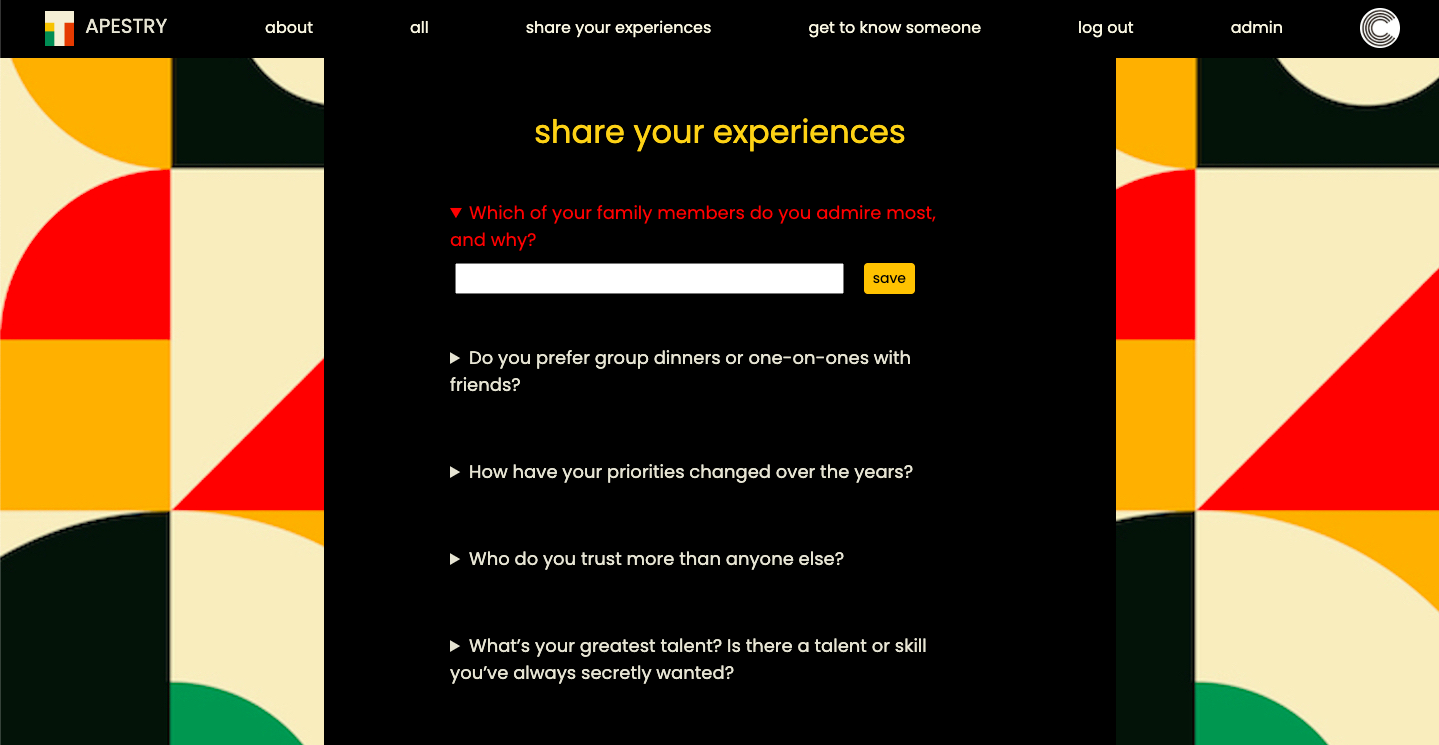
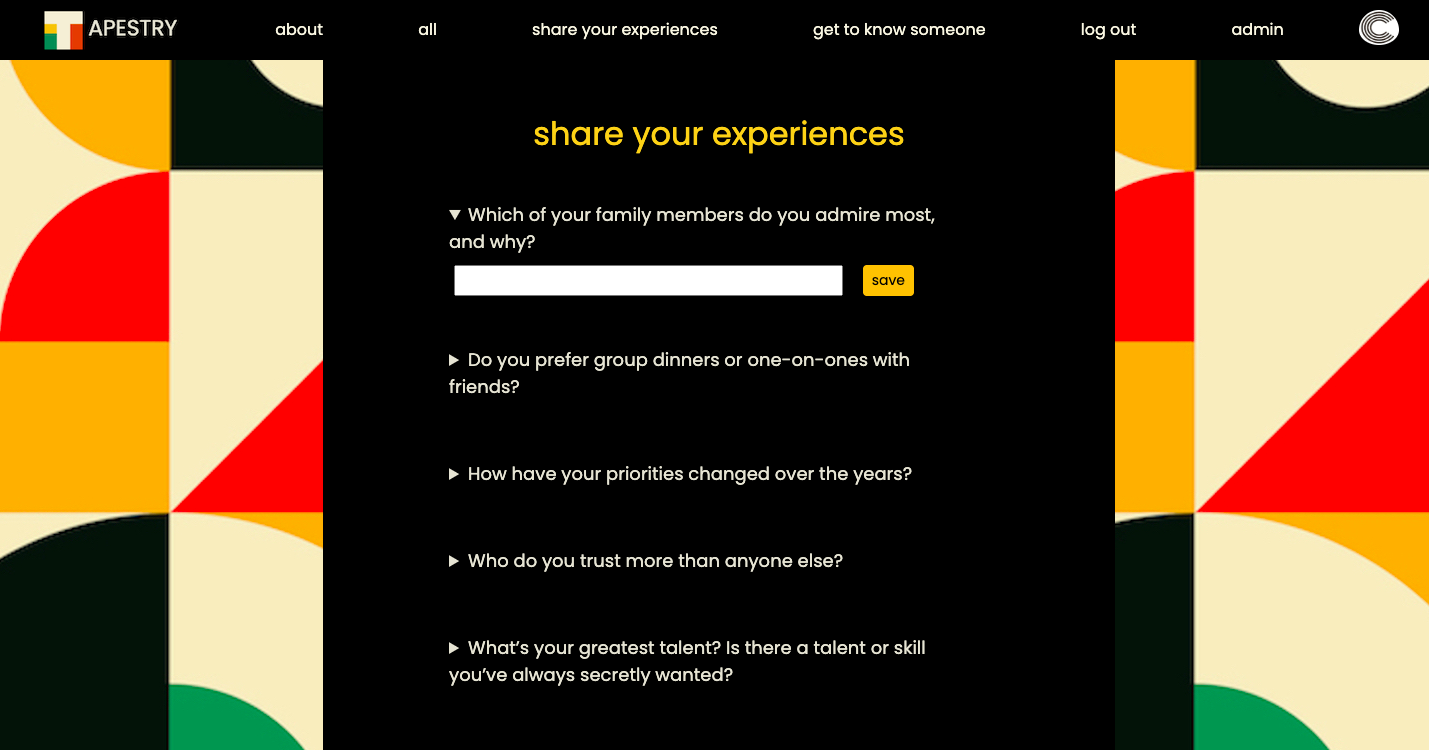
tweak css profile view

diff --git a/public/stylesheets/style.css b/public/stylesheets/style.css
@@ -33,17 +33,18 @@ main {
   align-items: center;
   justify-content: center;
   flex-direction: column;
-  padding: 0px 0 0 0;
 }
 
 section {
-  width: 50%;
-  height: 100%  ;
+  max-width: 55%;
+  /* min-width: 50%; */
+  height: 100%;
   display: flex;
   flex-direction: column;
   justify-content: flex-start;
   align-items: center;
   background-color: black;
+  padding: 0 55px;
 }
 
 form {
@@ -54,7 +55,7 @@ form {
 
 h1 {
   font-size: 32px;
-  padding: 10px 0 30px 0;
+  padding: 10px 0 0px 0;
   text-align: center;
   color: rgb(249, 207, 56);
 }
@@ -65,13 +66,13 @@ h2 {
 }
 
 h3 {
-  font-size: 20px;
+  font-size: 18px;
   text-align: center;
   padding: 10px 0 10px 0;
 }
 
 h4 {
-  font-size: 20px;
+  font-size: 18px;
 }
 
 ul {
@@ -95,7 +96,6 @@ input {
 
 
 details, summary {
-  padding: 0 10px;
   width: 500px;
   color:  rgb(230, 227, 211);
   font-size: 14px;
@@ -127,10 +127,10 @@ a {
   text-decoration: none;
   text-align: center;
 }
-
+/*
 pre {
   font-size: 14px;
-}
+} */
 
 nav > a {
   margin: 10px 20px;
@@ -171,13 +171,24 @@ nav > a:active {
 } */
 
 .form-div {
+  display: flex;
+  justify-content: center;
+  align-items: center;
   padding: 0 10px;
-  width: 600px;
 }
 
 .new-question {
-  padding: 10px 0 30px 0;
-  width: 600px;
+  padding: 30px 0 10px 0;
+  width: 500px;
+}
+
+#click-question {
+  padding: 15px 0 30px 0;
+}
+
+#question-line {
+  margin: 0 10px 10px 0px;
+  color:  rgb(0, 151, 80);
 }
 
 .qa-div {
@@ -196,6 +207,10 @@ nav > a:active {
   color:  rgb(0, 151, 80);
 }
 
+.comment-li {
+  list-style-type: circle;
+}
+
 summary:hover {
   color:  rgb(255, 0, 0);
 }
@@ -212,9 +227,9 @@ summary:hover {
 }
 
 .tapestry-header {
-  padding: 40px 0 0 0;
   font-size: 95px;
   color:  rgb(0, 151, 80);
+  padding:0;
 }
 
 #container {
@@ -226,11 +241,11 @@ summary:hover {
   width: 50%;
   height: 100vh;
   padding: 100px 0 0 0;
-  margin: 100px 50px 100 100px;
+  margin: 60px 50px 100 100px;
 }
 
 .intro-text {
-  font-size: 20px;
+  font-size: 18px;
   width: 58%;
   color: rgb(250, 246, 227);
 }
@@ -253,13 +268,13 @@ summary:hover {
   color: rgb(249, 207, 56);
 }
 
-#nav-avatar {
+#nav-avatar-div {
   padding: 0 40px 0 0;
   border-radius: 50%;
   align-items: center;
 }
 
-#avatar {
+#nav-avatar {
   border-radius: 50%;
   max-width: 125px;
   max-height: 125px;
@@ -270,10 +285,6 @@ summary:hover {
   display: flex;
   vertical-align: center;
   padding: 0 0 0 40px;
-}
-
-#tapestry-logo {
-  padding: 0 6px 0 0;
 }
 
 #google-login {
@@ -288,15 +299,10 @@ summary:hover {
   width: 600px;
 }
 
-#click-question {
-  padding: 15px 0 30px 0;
-}
-
-#question-line {
-  margin: 0 5px 10px 0px;
-  color:  rgb(0, 151, 80);
-}
-
-.comment-li {
-  list-style-type: circle;
+#avatar {
+  border-radius: 50%;
+  max-width: 125px;
+  max-height: 125px;
+  align-items: center;
+  padding: 0 0 5px 0;
 }

diff --git a/controllers/questions.js b/controllers/questions.js
@@ -6,7 +6,7 @@ function index(req, res) {
   .then(questions => {
     res.render('questions/index', {
       questions,
-      title: "Questions"
+      title: "questions"
     })
   })
   .catch(err => {
@@ -19,7 +19,7 @@ function newQuestion(req, res) {
   Question.find({})
   .then(questions => {
     res.render('questions/new', {
-      title: 'Add a Question to Your Profile',
+      title: 'create a question',
       questions,
     })
   })
@@ -40,6 +40,7 @@ function create(req, res) {
   })
 }
 
+// -----------ICEBOX - Work in Progress---(need to delete for user, answers also)------
 // function deleteQuestion(req, res) {
 //   Question.findById(req.params.id)
 //   .then(question => {
@@ -69,5 +70,5 @@ export {
   newQuestion as new,
   create,
   update,
-  // deleteQuestion
+  // deleteQuestion ---ICEBOX---
 }

diff --git a/public/stylesheets/profiles/show.css b/public/stylesheets/profiles/show.css
@@ -1,18 +1,12 @@
 section {
-  /* width: 60%; */
   height: 100vh;
-  /* display: flex;
-  flex-direction: column;
-  justify-content: flex-start;
-  align-items: center;
-  background-color: black; */
+  min-width: 40%;
+  max-width: 60%;
 }
-
 
 .profile-avatar {
   margin-top: 50px;
 }
-
 
 #profile-qa-div {
   display: flex;

diff --git a/controllers/answers.js b/controllers/answers.js
@@ -10,7 +10,7 @@ function index(req, res) {
     console.log('answers', answers)
     res.render('answers/index', {
       answers,
-      title: "Browse"
+      title: "all"
     })
   })
   .catch(err => {

diff --git a/controllers/profiles.js b/controllers/profiles.js
@@ -7,7 +7,7 @@ function index(req, res) {
   .then(profiles => {
     res.render("profiles/index", {
       profiles,
-      title: "Profiles"
+      title: "profiles"
     })
   })
   .catch(err => {

diff --git a/README.md b/README.md
@@ -16,9 +16,9 @@
 
 *note: trying to avoid the things I don't like about social media, such as "likes" which I think spurs on insincere postings online.
 
-
 ![image](public/images/tapestry.png)
-![image](public/images/tapestry-share.png)
+![admin](public/images/tapestry-share.png)
+![share](public/images/tapestry-admin.png)
 
 <br>
 
